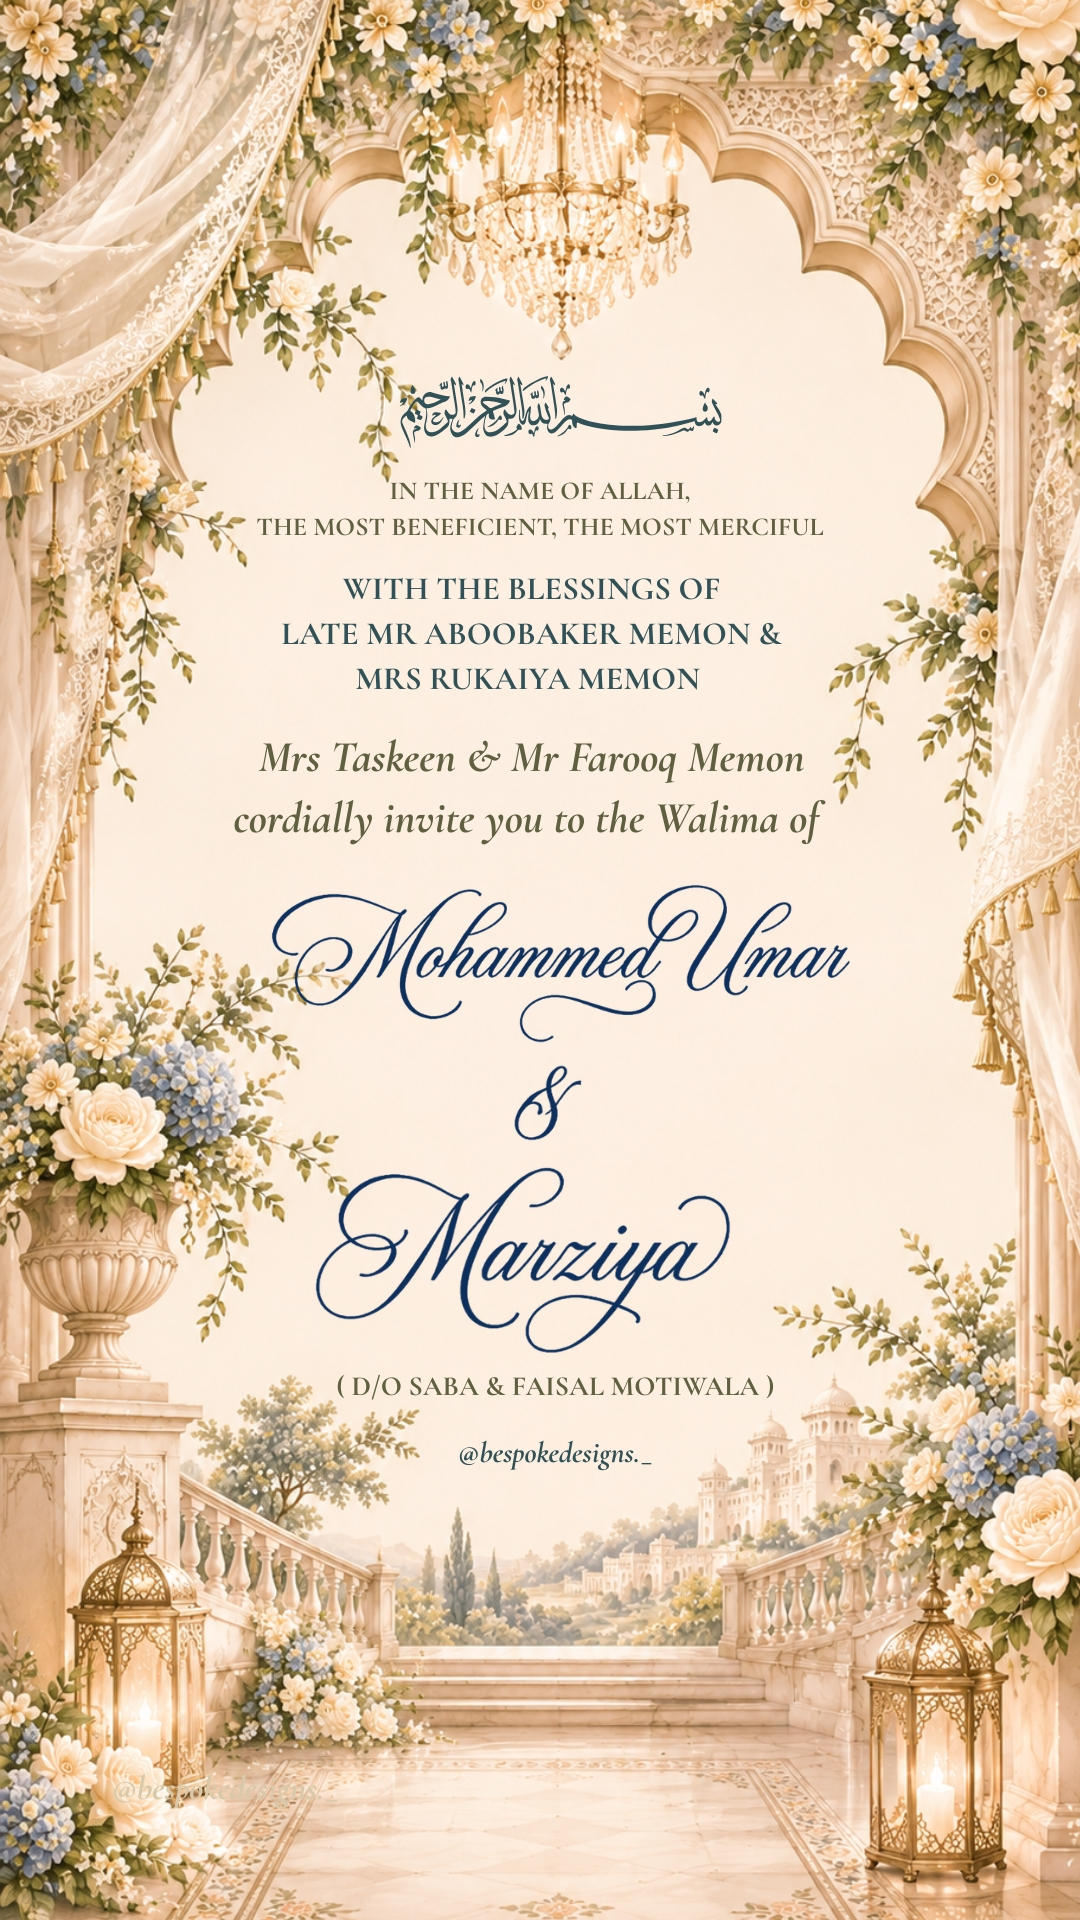
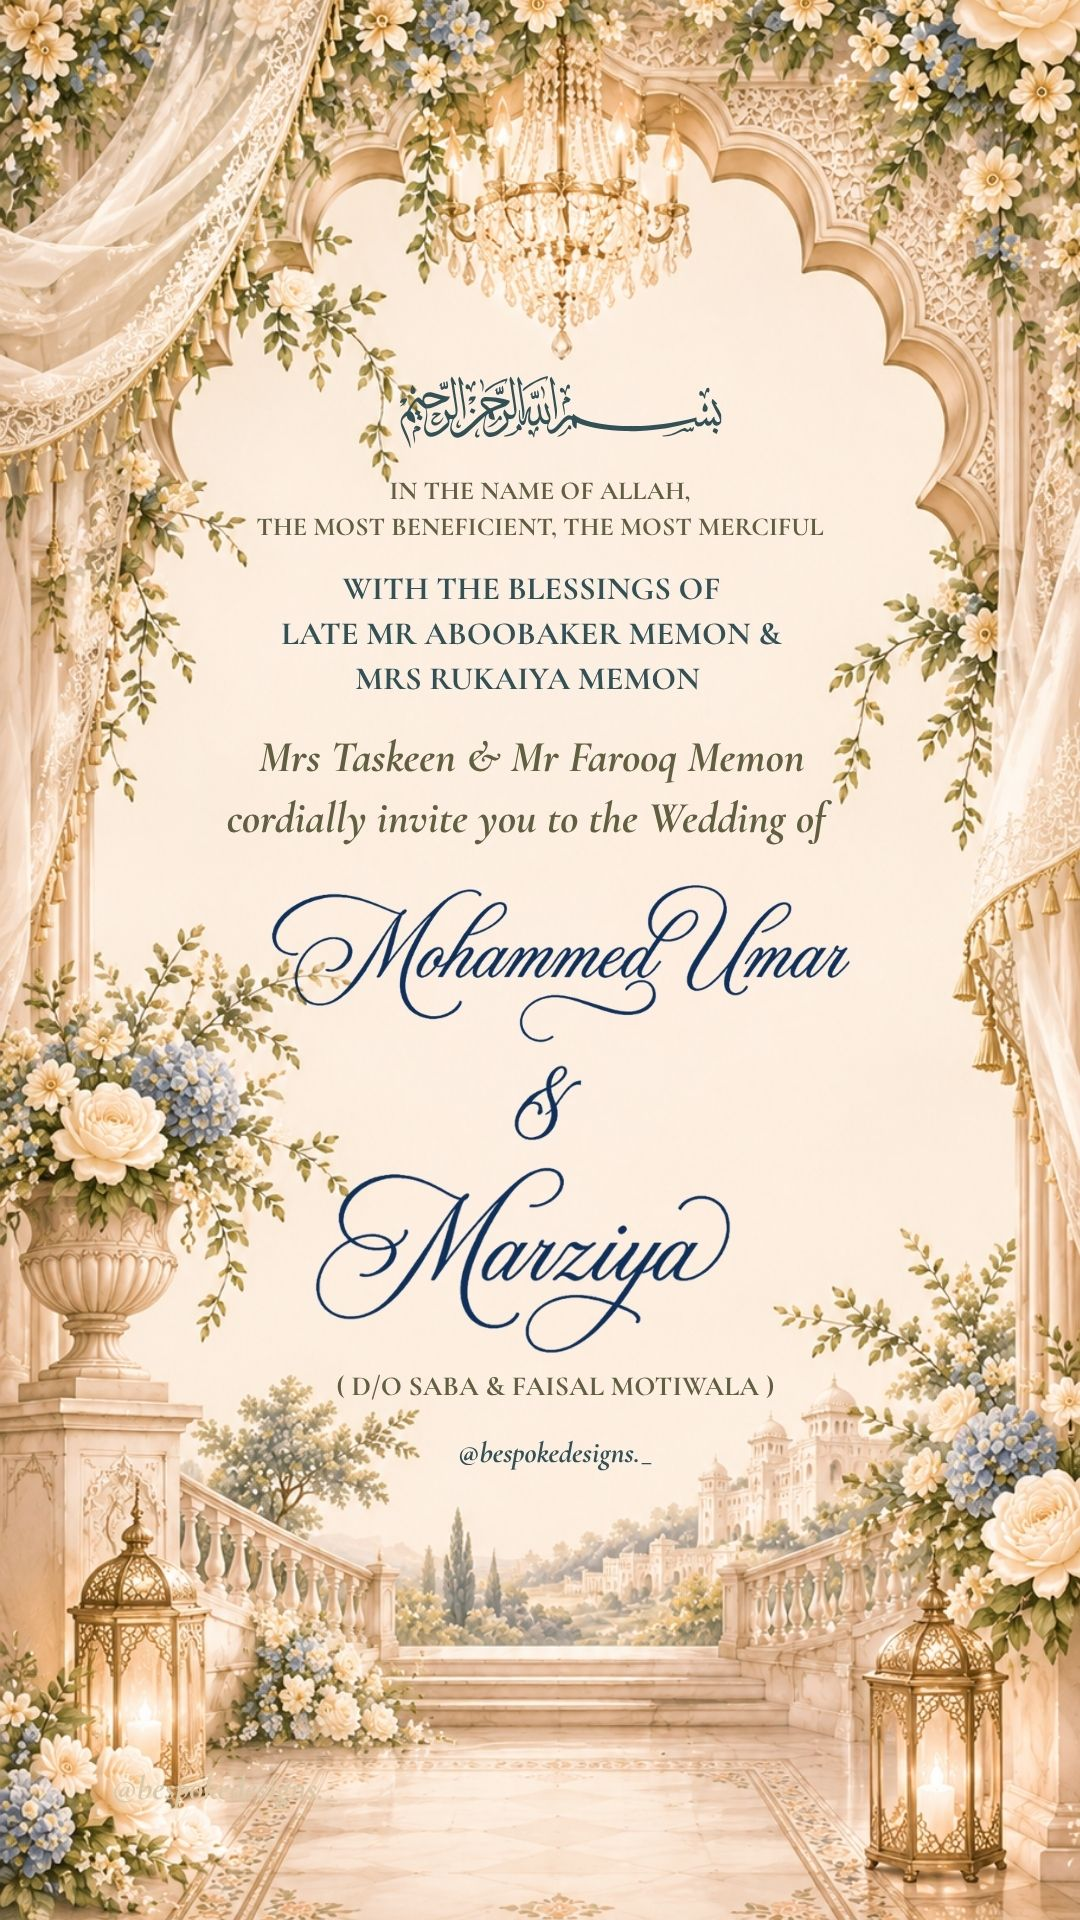
Update the invitation and Regards pages with the new artwork
- Page 2 now reads "cordially invite you to the Wedding of".
- Regards page: Mr Abdul Hamid Maklai; Abdul Wahid, Fariha, Usman & Yusra.
- Regenerated plates, text sprites and motion masks for these two pages only;
  a de-speck pass removes JPEG ringing left on the text-free plates.
- Screen-reader transcripts match the new wording.

Changed region(s): [[0.2139, 0.4062, 0.7639, 0.4375]]

diff --git a/src/pages.js b/src/pages.js
@@ -15,10 +15,10 @@ export const SEQ = {
 
 // screen-reader transcript of each artwork (wording exactly as printed)
 const TEXT = {
-  2: 'Bismillah ir-Rahman ir-Rahim. In the name of Allah, the most beneficient, the most merciful. With the blessings of Late Mr Aboobaker Memon & Mrs Rukaiya Memon. Mrs Taskeen & Mr Farooq Memon cordially invite you to the Walima of Mohammed Umar & Marziya (D/O Saba & Faisal Motiwala).',
+  2: 'Bismillah ir-Rahman ir-Rahim. In the name of Allah, the most beneficient, the most merciful. With the blessings of Late Mr Aboobaker Memon & Mrs Rukaiya Memon. Mrs Taskeen & Mr Farooq Memon cordially invite you to the Wedding of Mohammed Umar & Marziya (D/O Saba & Faisal Motiwala).',
   4: 'Nikah. 03rd December 2026. After Namaz e Isha. Masjid e Akash, Agripada.',
   5: 'Walima. 06th December 2026. 9:00 PM onwards. Islam Gymkhana Ground, Marine Drive.',
-  6: 'Regards, Mrs Salma & Mr Abdul Hameed Maklai. Fariha & Abdulwahid Memon. Usman Memon.',
+  6: 'Regards, Mrs Salma & Mr Abdul Hamid Maklai. Abdul Wahid, Fariha, Usman & Yusra.',
 };
 
 // Walima + Regards: the staircase at the top of the art is cropped away (fraction of the height)

diff --git a/tools/prepare_assets.py b/tools/prepare_assets.py
@@ -38,11 +38,12 @@ PAGES = {
     1: dict(file="1_MUM.JPEG", blocks=[]),
     2: dict(
         file="2_MUM.JPEG",
+        despeck=True,  # artwork supplied as a compressed JPEG
         blocks=[
             dict(id="bismillah", box=(390, 366, 732, 458), reveal="fade", shimmer=True),
             dict(id="inname", box=(250, 474, 830, 547), reveal="fade"),
             dict(id="blessings", box=(274, 566, 792, 700), reveal="fade"),
-            dict(id="hosts", box=(224, 728, 832, 852), reveal="fade"),
+            dict(id="hosts", box=(224, 728, 836, 852), reveal="fade"),
             dict(id="groom", box=(256, 868, 864, 1050), reveal="ink", k=61),
             dict(id="amp", box=(500, 1058, 590, 1148), reveal="fade", k=61),
             dict(id="bride", box=(304, 1164, 746, 1360), reveal="ink", k=61),
@@ -79,10 +80,11 @@ PAGES = {
     ),
     6: dict(
         file="6_MUM.JPEG",
+        despeck=True,
         blocks=[
             dict(id="title", box=(376, 620, 704, 730), reveal="ink", k=61),
             dict(id="names1", box=(202, 812, 878, 940), reveal="fade"),
-            dict(id="names2", box=(152, 1020, 928, 1076), reveal="fade"),
+            dict(id="names2", box=(140, 1020, 940, 1078), reveal="fade"),
             dict(id="names3", box=(348, 1088, 732, 1144), reveal="fade"),
             dict(id="credit", box=(368, 1454, 606, 1494), reveal="fade", faint=True),
         ],
@@ -344,6 +346,29 @@ def clean_text(img: np.ndarray, blocks: list[dict]):
     seed_owner[labels[ys, xs]] = owner[ys, xs]
     region_owner = np.where(inpaint_mask > 0, seed_owner[labels], 0)
     return clean, region_owner, colours, inpaint_mask
+
+
+def despeck(pnum: int, clean: np.ndarray, owner: np.ndarray, blocks: list[dict]):
+    """JPEG ringing around lettering leaves faint dots on the plate. On flat background only,
+    replace them with the local median and hand them to the nearest block's sprite, so
+    plate + sprites still rebuild the artwork exactly (in place)."""
+    solids = MOTION.get(pnum, {}).get("solid", [])
+    for bi, blk in enumerate(blocks):
+        x0, y0, x1, y1 = blk["box"]
+        x0, y0, x1, y1 = max(0, x0 - 18), max(0, y0 - 18), min(W, x1 + 18), min(H, y1 + 18)
+        sub = clean[y0:y1, x0:x1]
+        med = cv2.medianBlur(sub, 31)
+        Lm, Ls = lum(med), lum(sub)
+        mu = cv2.blur(Lm, (15, 15))
+        sd = np.sqrt(np.maximum(cv2.blur(Lm * Lm, (15, 15)) - mu * mu, 0))
+        flat = (sd < 2.5) & (cv2.cvtColor(med, cv2.COLOR_RGB2HSV)[..., 1] < 70)
+        spk = (np.abs(Lm - Ls) > 2.5) & flat
+        spk = (cv2.dilate(spk.astype(np.uint8), np.ones((5, 5), np.uint8)) > 0) & flat
+        for (sx0, sy0, sx1, sy1) in solids:  # never touch the chandelier / lanterns
+            spk[max(0, sy0 - y0):max(0, sy1 - y0), max(0, sx0 - x0):max(0, sx1 - x0)] = False
+        sub[spk] = med[spk]
+        o = owner[y0:y1, x0:x1]
+        o[spk & (o == 0)] = bi + 1
 
 
 # ---------------------------------------------------------------------------
@@ -723,6 +748,8 @@ def main():
         img = load(PAGES[pnum]["file"])
         blocks = PAGES[pnum]["blocks"]
         clean, owner, colours, inpaint_mask = clean_text(img, blocks)
+        if PAGES[pnum].get("despeck"):
+            despeck(pnum, clean, owner, blocks)
         Image.fromarray(clean).save(MASTERS / f"page{pnum}_clean.png")
         debug_masks(pnum, img, inpaint_mask)
         entries, comp = export_sprites(pnum, img, clean, owner, colours, blocks)
